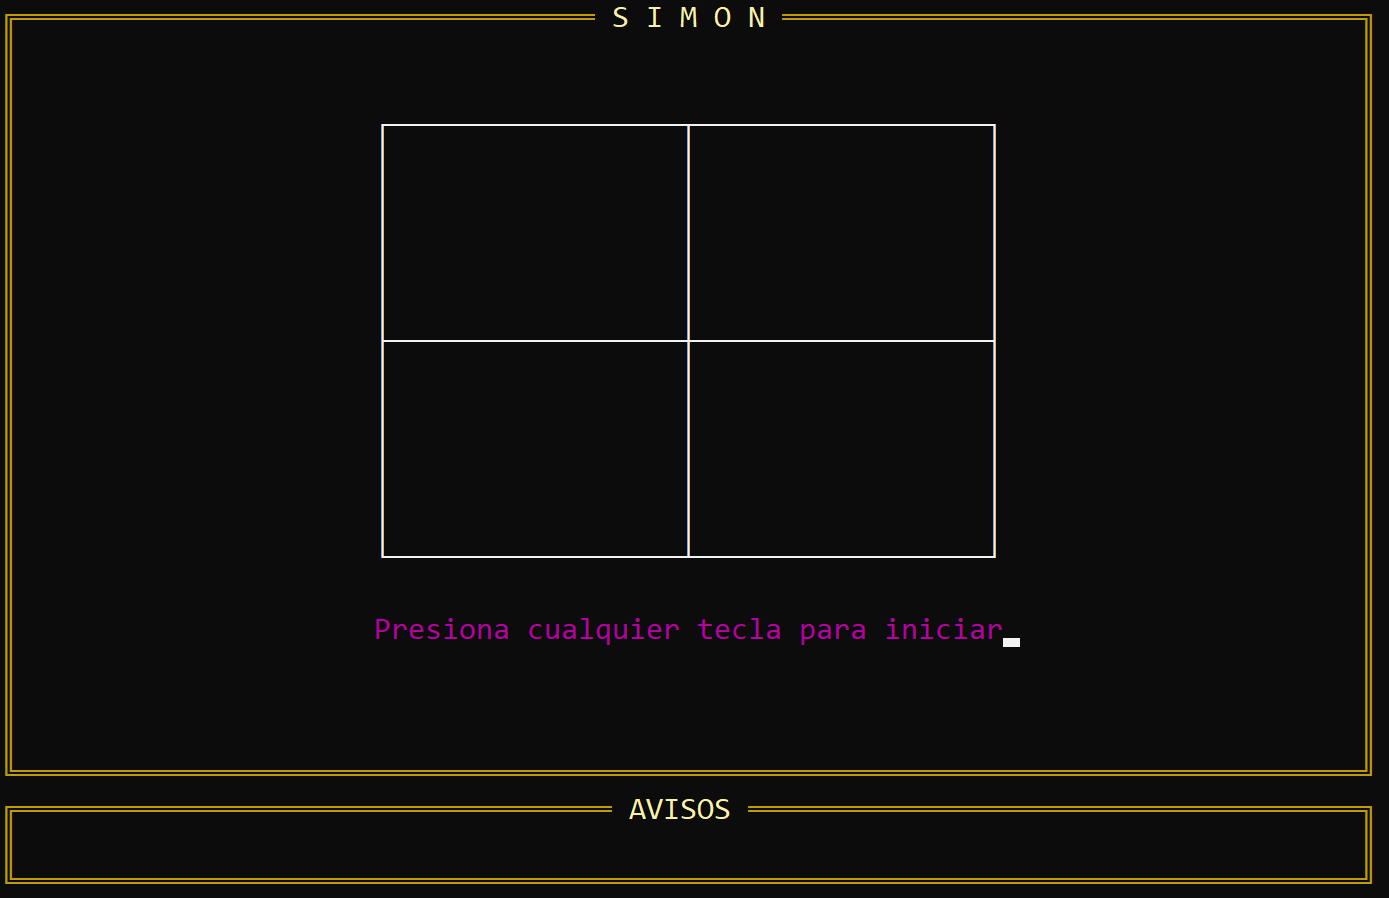
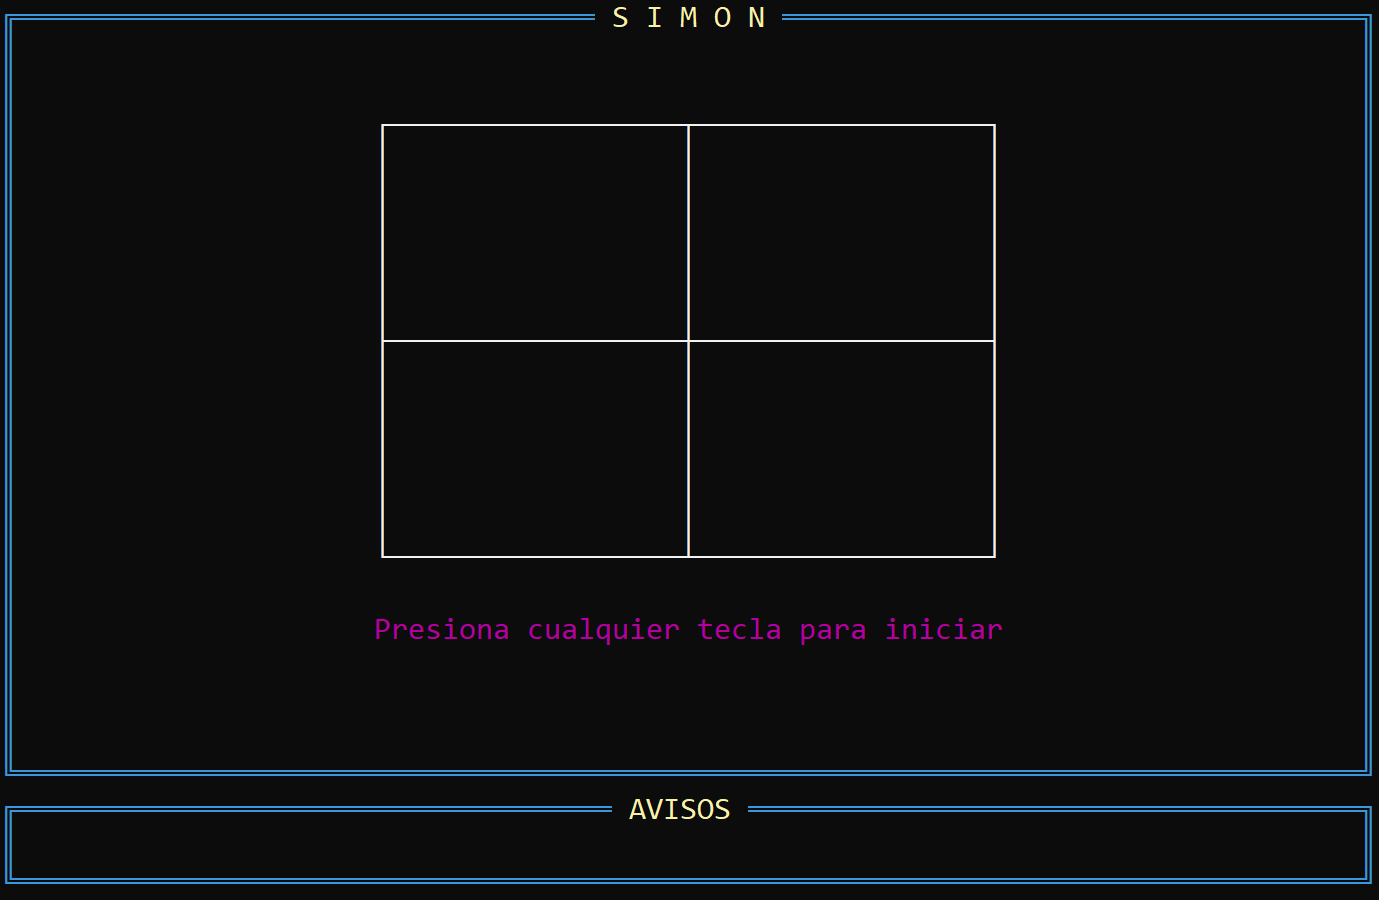
color actu

diff --git a/Simon_Juego/simon.c b/Simon_Juego/simon.c
@@ -13,10 +13,8 @@ void imprimirPuntos(int puntos);
 
 int main()
 {
-    int secuencia[MAX_LEN];
-    int longitudSecuencia;
-    int entradaUsuario, juego, correcto, puntos;
-    int i;
+    int secuencia[MAX_LEN], longitudSecuencia;
+    int entradaUsuario, correcto, puntos, juego, i;
     srand(time(NULL));
 
     do /********** BUCLE DEL JUEGO  **********/
@@ -50,12 +48,13 @@ int main()
                 }
             }
 
-            if (correcto) // Si completa la secuencia, imprime mensaje y espera 1.2 segundos
+            // Si completa la secuencia, imprime mensaje y espera 0.55 segundos
+            if (correcto)
             {
                 cadenaXY_COLOR(27, 23, 10, 0, " Correcto, sigue jugando ");
-                Sleep(550);               // Esperar 550 segundos
+                Sleep(550);
                 clsRegion(1, 23, 79, 23); // Limpiar zona de mensajes
-                puntos += 10;             // Suma 10 puntos por cada vez que complete la secuencia
+                puntos += 10;             // Suma 10 puntos por cada secuencia correcta
             }
             imprimirPuntos(puntos);
 
@@ -64,7 +63,7 @@ int main()
         Sleep(1500);
         juego = jugarDeNuevo();
 
-    } while (juego == 1);
+    } while (juego == 1); // Partida actual
 }
 
 /******** DESARROLLO DE FUNCIONES ********/
@@ -74,7 +73,7 @@ void dibujarInterfaz()
     int tipo2[6] = {218, 191, 192, 217, 196, 179}; // ┌ ┐ └ ┘ ─ │
 
     // Recuadro contenedor principal
-    color(6, 0);
+    color(3, 0);
     recuadro(0, 0, 80, 21, tipo1);
     color(15, 0);
 
@@ -91,7 +90,7 @@ void dibujarInterfaz()
     charXY(40, 9, 197); // Cruz central
 
     // Recuadro para mensajes
-    color(6, 0);
+    color(3, 0);
     recuadro(0, 22, 80, 24, tipo1);
 
     // Titulo juego

diff --git a/Simon_Juego/interfaces.h b/Simon_Juego/interfaces.h
@@ -6,7 +6,6 @@
 #include <windows.h>
 #include <stdlib.h>
 #include <time.h>
-#include <winbase.h>
 #include <conio.h>
 
 /******* PROTOTIPOS DE FUNCIONES *******/
@@ -26,7 +25,6 @@ void recuadro(int x1, int y1, int x2, int y2, int tipo[]);
 void color(int clrT, int clrF);
 void cls();
 void pausa();
-void delay(unsigned duration);
 void clsRegion(int x1, int y1, int x2, int y2);
 
 /******* DESARROLLO DE FUNCIONES *******/
